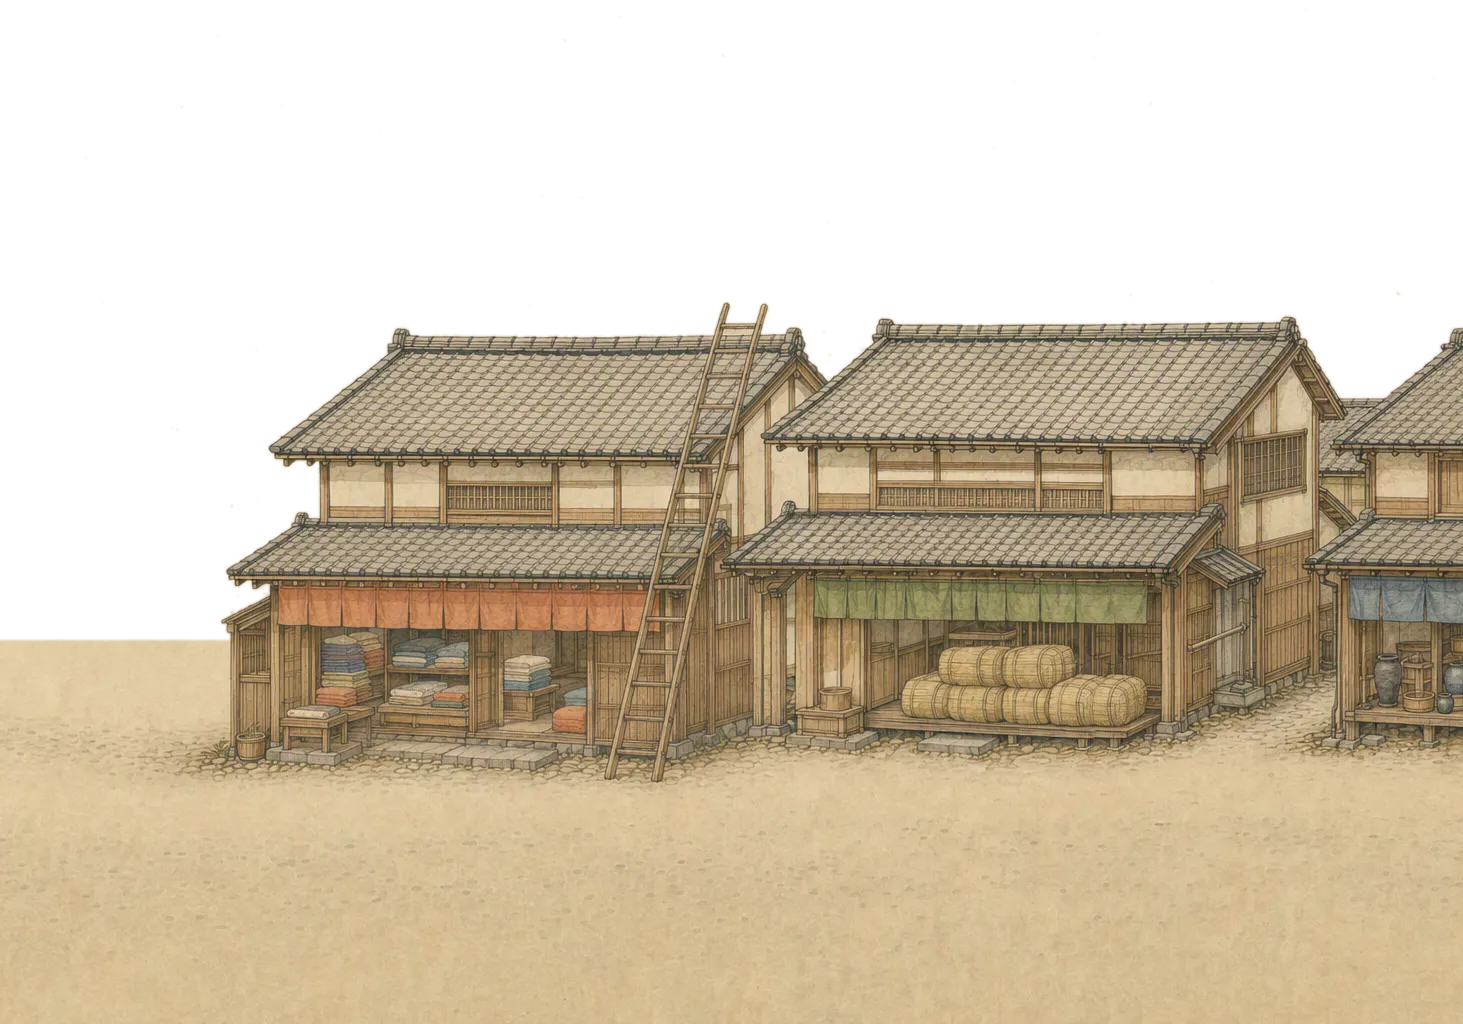
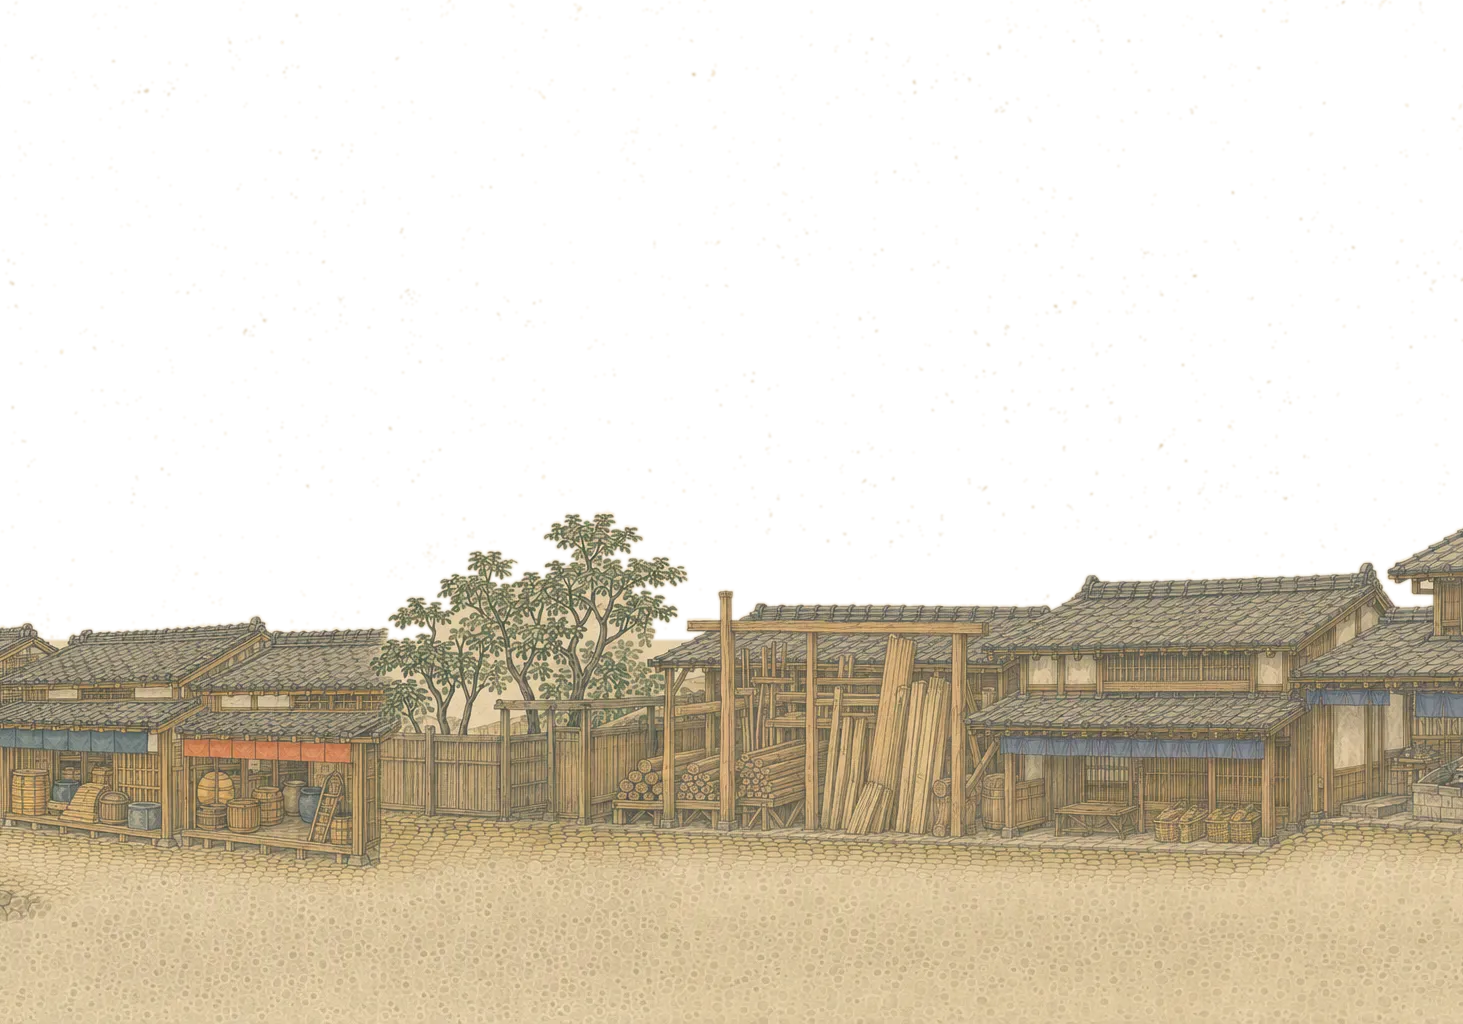
江户长卷加长到 9000 单位：续画 6 段、远景、路人与 13 处新景物
- 中景从桥头向左（北）续到 9 段，止于水渠小桥；原 0–3000 内容移到
  6000–9000，坐标统一 +6000
- 续画时比例漂移：重画 F–M，提示词加画面内绝对位置（屋脊、檐口、
  地板、路面）后稳定；远景按地平线对齐后拼接
- 路人 8 种约 30 处，避开故事人物；新景物 13 处，合计 23 处
- 只渲染镜头所在段及前后各一段；修正远景镜像副本的位置
- 精灵尺寸改由 sizes.json 提供，图片用 import.meta.glob 载入
- 测试改为按街长判断镜头边界

Claude-Session: https://claude.ai/code/session_017B9khwgPhjnf7esrFV7VAS

diff --git a/apps/qingming-edo/src/content/world.ts b/apps/qingming-edo/src/content/world.ts
@@ -58,6 +58,20 @@ export const HOTSPOTS: HotspotDef[] = [
   { id: 'a-giboshi', targetId: 'giboshi', kind: 'ambient', anchor: { x: 8874, y: 443 }, hitArea: { x: 8860, y: 425, w: 28, h: 36 }, priority: 2 },
   { id: 'a-willow', targetId: 'willow', kind: 'ambient', anchor: { x: 8740, y: 350 }, hitArea: { x: 8685, y: 215, w: 110, h: 270 }, priority: 1 },
   { id: 'a-boat', targetId: 'boat', kind: 'ambient', anchor: { x: 8822, y: 617 }, hitArea: { x: 8655, y: 566, w: 335, h: 104 }, priority: 2 },
+  // sections 0–5: the street going north to the canal (long scroll, decision #14)
+  { id: 'a-timber', targetId: 'timber', kind: 'ambient', anchor: { x: 535, y: 485 }, hitArea: { x: 420, y: 410, w: 230, h: 150 }, priority: 2 },
+  { id: 'a-sake', targetId: 'sake', kind: 'ambient', anchor: { x: 1465, y: 535 }, hitArea: { x: 1400, y: 470, w: 130, h: 130 }, priority: 2 },
+  { id: 'a-umbrellas', targetId: 'umbrellas', kind: 'ambient', anchor: { x: 1840, y: 530 }, hitArea: { x: 1700, y: 480, w: 280, h: 100 }, priority: 2 },
+  { id: 'a-tower', targetId: 'tower', kind: 'ambient', anchor: { x: 1860, y: 260 }, hitArea: { x: 1800, y: 150, w: 120, h: 220 }, priority: 2 },
+  { id: 'a-well', targetId: 'well', kind: 'ambient', anchor: { x: 2605, y: 505 }, hitArea: { x: 2565, y: 450, w: 80, h: 110 }, priority: 2 },
+  { id: 'a-cooper', targetId: 'cooper', kind: 'ambient', anchor: { x: 2830, y: 515 }, hitArea: { x: 2720, y: 460, w: 220, h: 110 }, priority: 2 },
+  { id: 'a-medicine', targetId: 'medicine', kind: 'ambient', anchor: { x: 3290, y: 432 }, hitArea: { x: 3160, y: 400, w: 260, h: 65 }, priority: 2 },
+  { id: 'a-prints', targetId: 'prints', kind: 'ambient', anchor: { x: 3585, y: 470 }, hitArea: { x: 3480, y: 445, w: 210, h: 50 }, priority: 2 },
+  { id: 'a-kido', targetId: 'kido', kind: 'ambient', anchor: { x: 4135, y: 390 }, hitArea: { x: 4000, y: 220, w: 270, h: 340 }, priority: 1 },
+  { id: 'a-ootana', targetId: 'ootana', kind: 'ambient', anchor: { x: 4555, y: 400 }, hitArea: { x: 4270, y: 370, w: 570, h: 60 }, priority: 2 },
+  { id: 'a-kura', targetId: 'kura', kind: 'ambient', anchor: { x: 4885, y: 315 }, hitArea: { x: 4770, y: 230, w: 230, h: 170 }, priority: 2 },
+  { id: 'a-inari', targetId: 'inari', kind: 'ambient', anchor: { x: 5336, y: 392 }, hitArea: { x: 5296, y: 362, w: 80, h: 60 }, priority: 2 },
+  { id: 'a-ceramics', targetId: 'ceramics', kind: 'ambient', anchor: { x: 5815, y: 495 }, hitArea: { x: 5650, y: 430, w: 330, h: 130 }, priority: 1 },
   { id: 'a-ladder', targetId: 'ladder', kind: 'ambient', anchor: { x: 6468, y: 370 }, hitArea: { x: 6418, y: 210, w: 100, h: 320 }, priority: 1 },
 ];
 
@@ -95,6 +109,19 @@ export const AMBIENT: Record<string, string> = {
   willow: '川風に、柳の枝がそよいだ。',
   boat: '荷を積んだ舟が、岸につながれている。',
   ladder: '屋根に長い梯子が掛けてある。火の用心のためだろうか。',
+  timber: '材木が背丈より高く立てかけてある。木の香りがする。',
+  sake: '酒屋の軒に、杉玉が下がっている。',
+  umbrellas: '開いた番傘が、店先にいくつも干してある。',
+  tower: '火の見櫓。てっぺんの半鐘が、朝日を受けている。',
+  well: '井戸の釣瓶が、きしりと鳴った。',
+  cooper: '桶屋の店先に、竹の箍が輪になって掛かっている。',
+  medicine: '薬種屋の軒に、薬袋がずらりと下がっている。',
+  prints: '絵草紙屋の店先に、錦絵が吊るしてある。',
+  kido: '町木戸。夜になると、この戸が閉められる。',
+  ootana: '大店の長い暖簾。奥から算盤の音がする。',
+  kura: '白壁の土蔵。厚い扉が少しだけ開いている。',
+  inari: '路地の奥に、小さな稲荷の鳥居が見える。',
+  ceramics: '瀬戸物屋の棚に、皿や鉢が並んでいる。',
 };
 
 export const QUESTS: QuestDef[] = [

diff --git a/apps/qingming-edo/src/scene/Street.tsx b/apps/qingming-edo/src/scene/Street.tsx
@@ -176,7 +176,7 @@ export function Street({ apiRef, spots, poses, reacting, reduceMotion, interacti
           <rect width={FAR.w * 2} height={SCENE_H} fill="#e1cfa6" />
           {/* raised so the distant roofs show just above the street's rooftops */}
           <image href={FAR.href} x={0} y={-110} width={FAR.w} height={FAR.h} preserveAspectRatio="none" />
-          <image href={FAR.href} x={-FAR.w} y={-110} width={FAR.w} height={FAR.h} preserveAspectRatio="none" transform="scale(-1 1)" />
+          <image href={FAR.href} x={-2 * FAR.w} y={-110} width={FAR.w} height={FAR.h} preserveAspectRatio="none" transform="scale(-1 1)" />
         </svg>
       </div>
 

diff --git a/apps/qingming-edo/src/App.tsx b/apps/qingming-edo/src/App.tsx
@@ -410,4 +410,17 @@ const AMBIENT_LABEL: Record<string, string> = {
   willow: '川端の柳',
   boat: '川の荷舟',
   ladder: '屋根の梯子',
+  timber: '材木置き場',
+  sake: '酒屋の杉玉',
+  umbrellas: '傘屋の番傘',
+  tower: '火の見櫓',
+  well: '路地の井戸',
+  cooper: '桶屋の箍',
+  medicine: '薬種屋の薬袋',
+  prints: '絵草紙屋の錦絵',
+  kido: '町木戸',
+  ootana: '大店の暖簾',
+  kura: '土蔵',
+  inari: '路地奥の鳥居',
+  ceramics: '瀬戸物屋の棚',
 };

diff --git a/apps/qingming-edo/src/engine/engine.test.ts b/apps/qingming-edo/src/engine/engine.test.ts
@@ -282,8 +282,8 @@ describe('touch', () => {
 
   it('the camera stays on the street', () => {
     expect(clampCamera(-50, 400, SCENE_W)).toBe(0);
-    expect(clampCamera(5000, 400, SCENE_W)).toBe(SCENE_W - 400);
-    expect(clampCamera(100, 4000, SCENE_W)).toBe(0);
+    expect(clampCamera(SCENE_W + 5000, 400, SCENE_W)).toBe(SCENE_W - 400);
+    expect(clampCamera(100, SCENE_W + 1000, SCENE_W)).toBe(0);
   });
 
   it('every street target is reachable on a 360 px phone without overlapping a person', () => {

diff --git a/docs/painted-worlds/art/edo/README.md b/docs/painted-worlds/art/edo/README.md
@@ -59,3 +59,25 @@
 **仍未解决**：飞起的纸仍是代码画的；绘卷帐的页面仍是线描；各段店铺之间偶有屋檐相交处的结构是生成的，未逐一核对；未在真机上测。
 
 预览：`round2/edo-street90-panorama.webp`（游戏内 3000 单位全街截图）、`round2/edo-street90-strip-preview.webp`（拼接原条）。
+
+---
+
+# 第三轮：长卷加长到 9000 单位，加路人（2026-10-31）
+
+所有者：「要有清明上河图的长卷，要足够长」。与 Codex 定为定案第 14 条：每作至少 14 段×1000。本轮江户先到 9 段（9000 单位，手机竖屏约 26 屏）；下一轮从日本桥向右续 5 段（桥身与南岸），凑满 14 段。
+
+- 中景：从现桥头一段（D）向左续画 E–M 共 9 段，拼成 13824×1024，取右侧 13167 px＝9000 单位。原来 0–3000 的内容整体移到 6000–9000，坐标统一 +6000。
+- 内容（右→左）：…瀬戸物屋、稲荷の鳥居が見える路地、大店と土蔵、町木戸と番屋、絵草紙屋、薬種屋、井戸、桶屋、扇・傘屋と火の見櫓、酒屋、木場、水渠の小橋（全部创作）。
+- 远景：续画到 8 段（8704 px＝5950 单位），其中一段有极淡的富士；按每段地平线所在行上下对齐后再拼。
+- 路人：两张各 4 人（商人、持伞的女子、背货的、僧、武士、学徒、鱼贩、老妇），共约 30 处固定摆放，避开故事人物；三成左右左右翻转。
+- 新增 13 处可点景物（材木、杉玉、番傘、火の見櫓、井戸、桶屋の箍、薬袋、錦絵、町木戸、大店の暖簾、土蔵、稲荷の鳥居、瀬戸物），合计 23 处。
+- 按段加载：只渲染镜头所在段及前后各一段。全卷图片 2.3 MB，首屏只取约 0.9 MB。
+
+**本轮踩到的问题**
+- 续画再次「越画越大」（大店以左约 1.4 倍，路面变窄），而且是单张内部渐变，后期缩放救不了。重画 F–M，提示词里加**画面内的绝对位置**：屋脊约在上方 30%、一层檐口 55%、店铺地板前缘 73%、路面从 75% 到底。之后比例稳定。
+- 远景续画时地平线忽高忽低（相差 30 余 px），拼接前按每段最暗的远景行对齐。
+- 路人表里有两人的扁担和箱子相碰：按连通区域切会把两人粘在一起，改为按最空的列切，再删掉切口处不连主体的小碎片。
+
+生成次数：中景 9＋重画 8、远景 5（含一次 502 后续跑）、路人 2 ＝ 24 次 high。
+
+预览：`round3/edo-long9000.webp`（游戏内 9000 单位全卷）。
